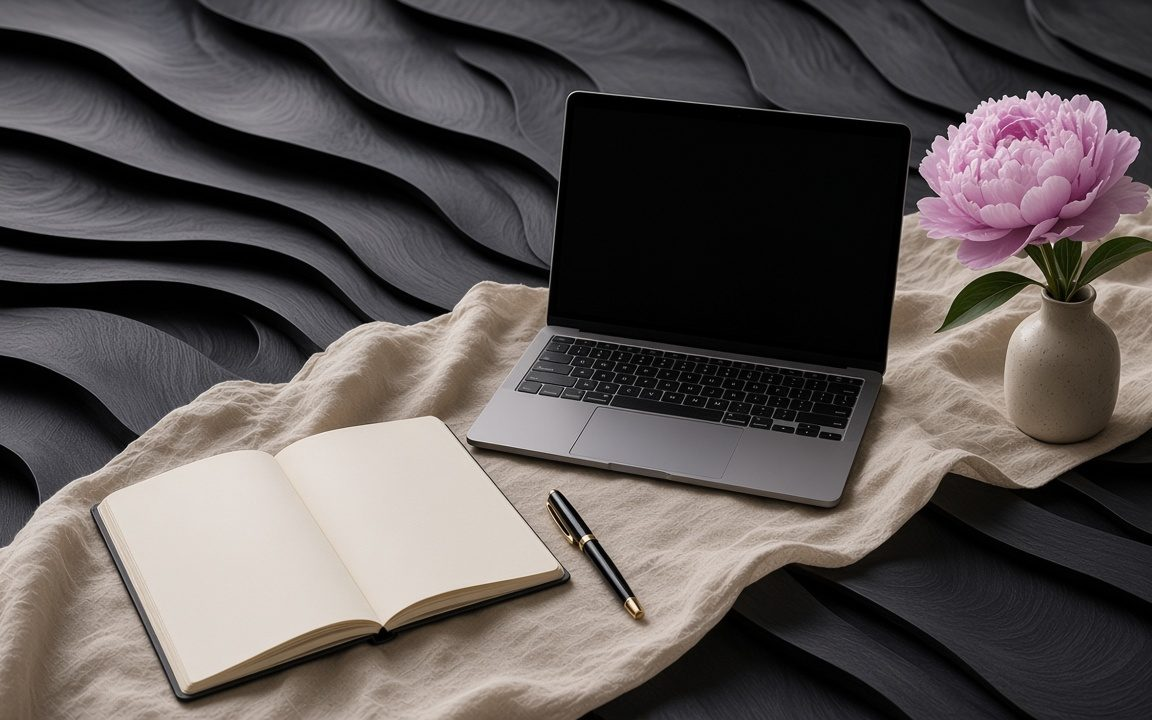
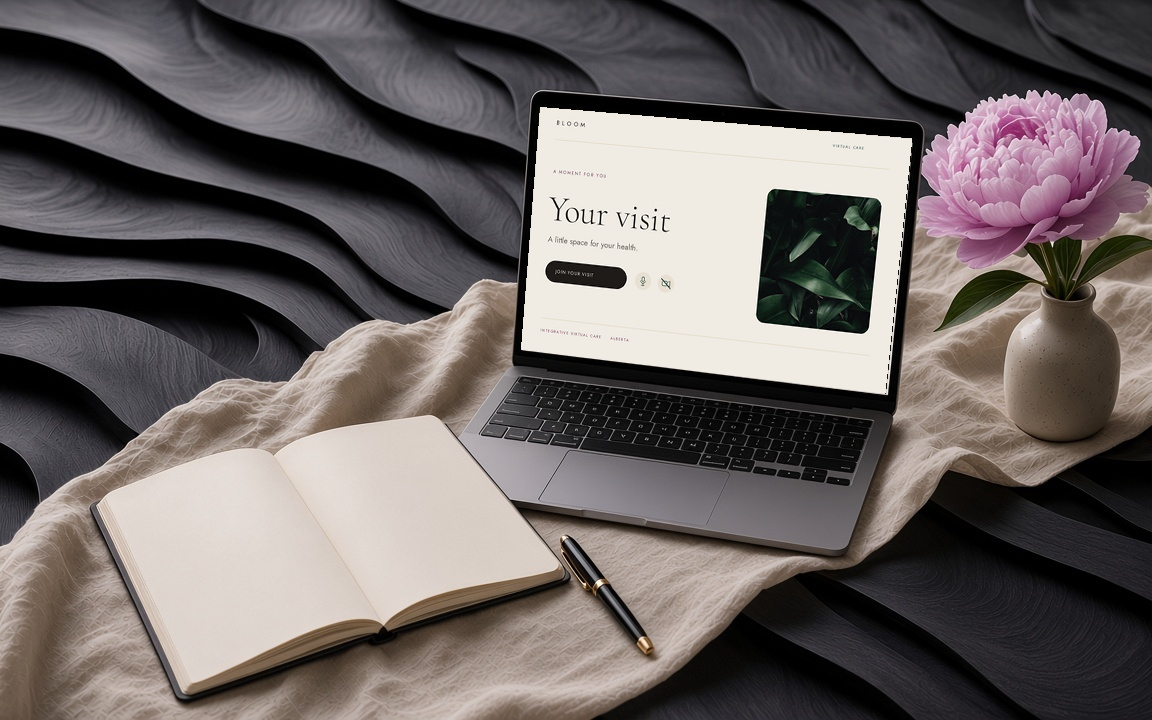
Refine Bloom Library images and lead with first visit
* Place the first-visit card first in the Library grid.

The other five cards keep their previous order. No image files change; the blood-work and first-visit replacements are still waiting.

* Use the final blood-work and first-visit Library images.

The blood-work picture shows a low fill of blood in three tubes. The first-visit picture shows an illustrated Bloom visit screen. Alt text matches those pictures, and the other four images stay as they were.

* Replace the blood-work and first-visit pictures with the revised files.

The tubes are a little under half full. The laptop shows the Bloom homepage. Alt text matches those pictures.

* Use the brand-cap blood-work picture and the green-leaf visit screen.

The tubes stay a little under half full, with emerald, burgundy, and lilac caps. The laptop shows a Your visit screen with emerald foliage. The other four images stay as they were.

---------

diff --git a/index.html b/index.html
@@ -1319,10 +1319,10 @@ footer a:hover{color:var(--bone)}
     </div>
     <!-- Illustrative AI-generated imagery for the six Library articles, cropped from 16:9 to 16:10. Not a photograph of a patient, a practitioner, or a laboratory result. -->
 <div class="lib-grid">
-      <article class="neo res reveal"><div class="res-img" role="img" aria-label="Clear glass vessels on ivory linen, with a pale pink petal and a few leaves" style="background-image:url('library/images/understanding-your-blood-work.jpg')"></div><div class="res-top"><span class="pill pill-lilac">Guide</span><span class="small">7 min read</span></div><h3><a href="/library/understanding-your-blood-work.html">Understanding your blood work</a></h3><p class="small">What common lab markers measure, explained in plain language, plus questions to bring to your next visit. Your practitioner will always review your results with you.</p><a class="link" href="/library/understanding-your-blood-work.html">Read</a></article>
+      <article class="neo res reveal"><div class="res-img" role="img" aria-label="An open blank notebook, a pen, and a laptop showing a Bloom screen titled Your visit with green leaves, beside a pink flower in a vase" style="background-image:url('library/images/what-to-expect-at-your-first-visit.jpg')"></div><div class="res-top"><span class="pill pill-lilac">Bloom</span><span class="small">6 min read</span></div><h3><a href="/library/what-to-expect-at-your-first-visit.html">What to expect at your first visit</a></h3><p class="small">How an integrated visit works, from booking to your written plan.</p><a class="link" href="/library/what-to-expect-at-your-first-visit.html">Read</a></article>
+      <article class="neo res reveal"><div class="res-img" role="img" aria-label="Three collection tubes a little under half full of dark red blood, with emerald, burgundy, and lilac caps, on ivory linen beside a pink flower and an amber bottle" style="background-image:url('library/images/understanding-your-blood-work.jpg')"></div><div class="res-top"><span class="pill pill-lilac">Guide</span><span class="small">7 min read</span></div><h3><a href="/library/understanding-your-blood-work.html">Understanding your blood work</a></h3><p class="small">What common lab markers measure, explained in plain language, plus questions to bring to your next visit. Your practitioner will always review your results with you.</p><a class="link" href="/library/understanding-your-blood-work.html">Read</a></article>
       <article class="neo res reveal"><div class="res-img" role="img" aria-label="A ceramic cup of tea beside a closed book, a white flower and lilac petals on rumpled linen" style="background-image:url('library/images/an-evening-wind-down.jpg')"></div><div class="res-top"><span class="pill pill-lilac">Ritual</span><span class="small">6 min read</span></div><h3><a href="/library/an-evening-wind-down.html">An evening wind-down</a></h3><p class="small">A gentle routine for the hour before bed, from a warm cup of tea to screens off.</p><a class="link" href="/library/an-evening-wind-down.html">Read</a></article>
       <article class="neo res reveal"><div class="res-img" role="img" aria-label="A plate of grains, roasted vegetables, leafy greens and orange segments on linen, with a white flower beside it" style="background-image:url('library/images/balanced-eating-made-simple.jpg')"></div><div class="res-top"><span class="pill pill-lilac">Nutrition</span><span class="small">6 min read</span></div><h3><a href="/library/balanced-eating-made-simple.html">Balanced eating, made simple</a></h3><p class="small">Easy ways to build balanced meals around foods you already enjoy.</p><a class="link" href="/library/balanced-eating-made-simple.html">Read</a></article>
-      <article class="neo res reveal"><div class="res-img" role="img" aria-label="An open blank notebook, a pen and a laptop with a dark screen on linen, beside a pink flower in a small vase" style="background-image:url('library/images/what-to-expect-at-your-first-visit.jpg')"></div><div class="res-top"><span class="pill pill-lilac">Bloom</span><span class="small">6 min read</span></div><h3><a href="/library/what-to-expect-at-your-first-visit.html">What to expect at your first visit</a></h3><p class="small">How an integrated visit works, from booking to your written plan.</p><a class="link" href="/library/what-to-expect-at-your-first-visit.html">Read</a></article>
       <article class="neo res reveal"><div class="res-img" role="img" aria-label="A ceramic bowl of vegetable soup with a wooden spoon and a sprig of rosemary" style="background-image:url('library/images/warming-winter-soups.jpg')"></div><div class="res-top"><span class="pill pill-lilac">Recipe</span><span class="small">7 min read</span></div><h3><a href="/library/warming-winter-soups.html">Warming winter soups</a></h3><p class="small">Simple, comforting recipes for the colder months.</p><a class="link" href="/library/warming-winter-soups.html">Read</a></article>
       <article class="neo res reveal"><div class="res-img" role="img" aria-label="A glass carafe and a glass of water on linen, with white and pink flowers" style="background-image:url('library/images/hydration-made-easy.jpg')"></div><div class="res-top"><span class="pill pill-lilac">Practice</span><span class="small">6 min read</span></div><h3><a href="/library/hydration-made-easy.html">Hydration, made easy</a></h3><p class="small">Small, everyday habits that make drinking water effortless.</p><a class="link" href="/library/hydration-made-easy.html">Read</a></article>
     </div>

diff --git a/library/what-to-expect-at-your-first-visit.html b/library/what-to-expect-at-your-first-visit.html
@@ -53,7 +53,7 @@
     </header>
     <!-- Illustrative AI-generated imagery for the six Library articles, cropped from 16:9 to 16:10. Not a photograph of a patient, a practitioner, or a laboratory result. -->
 <figure class="hero-fig">
-      <img src="images/what-to-expect-at-your-first-visit.jpg" alt="An open blank notebook, a pen and a laptop with a dark screen on linen, beside a pink flower in a small vase">
+      <img src="images/what-to-expect-at-your-first-visit.jpg" alt="An open blank notebook, a pen, and a laptop showing a Bloom screen titled Your visit with green leaves, beside a pink flower in a vase">
       <figcaption>Illustrative AI-generated imagery.</figcaption>
     </figure>
     <div class="article-body">
@@ -157,7 +157,7 @@
       <h2>More from the library</h2>
       <div class="rel-grid">
       <a class="rel neo" href="understanding-your-blood-work.html">
-        <img src="images/understanding-your-blood-work.jpg" alt="Clear glass vessels on ivory linen, with a pale pink petal and a few leaves">
+        <img src="images/understanding-your-blood-work.jpg" alt="Three collection tubes a little under half full of dark red blood, with emerald, burgundy, and lilac caps, on ivory linen beside a pink flower and an amber bottle">
         <div class="body">
           <span class="pill pill-lilac">Guide</span>
           <h3>Understanding your blood work</h3>

diff --git a/library/understanding-your-blood-work.html b/library/understanding-your-blood-work.html
@@ -53,7 +53,7 @@
     </header>
     <!-- Illustrative AI-generated imagery for the six Library articles, cropped from 16:9 to 16:10. Not a photograph of a patient, a practitioner, or a laboratory result. -->
 <figure class="hero-fig">
-      <img src="images/understanding-your-blood-work.jpg" alt="Clear glass vessels on ivory linen, with a pale pink petal and a few leaves">
+      <img src="images/understanding-your-blood-work.jpg" alt="Three collection tubes a little under half full of dark red blood, with emerald, burgundy, and lilac caps, on ivory linen beside a pink flower and an amber bottle">
       <figcaption>Illustrative AI-generated imagery.</figcaption>
     </figure>
     <div class="article-body">
@@ -183,7 +183,7 @@
           </div>
       </a>
       <a class="rel neo" href="what-to-expect-at-your-first-visit.html">
-        <img src="images/what-to-expect-at-your-first-visit.jpg" alt="An open blank notebook, a pen and a laptop with a dark screen on linen, beside a pink flower in a small vase">
+        <img src="images/what-to-expect-at-your-first-visit.jpg" alt="An open blank notebook, a pen, and a laptop showing a Bloom screen titled Your visit with green leaves, beside a pink flower in a vase">
         <div class="body">
           <span class="pill pill-lilac">Bloom</span>
           <h3>What to expect at your first visit</h3>

diff --git a/library/an-evening-wind-down.html b/library/an-evening-wind-down.html
@@ -139,7 +139,7 @@
       <h2>More from the library</h2>
       <div class="rel-grid">
       <a class="rel neo" href="understanding-your-blood-work.html">
-        <img src="images/understanding-your-blood-work.jpg" alt="Clear glass vessels on ivory linen, with a pale pink petal and a few leaves">
+        <img src="images/understanding-your-blood-work.jpg" alt="Three collection tubes a little under half full of dark red blood, with emerald, burgundy, and lilac caps, on ivory linen beside a pink flower and an amber bottle">
         <div class="body">
           <span class="pill pill-lilac">Guide</span>
           <h3>Understanding your blood work</h3>
@@ -157,7 +157,7 @@
           </div>
       </a>
       <a class="rel neo" href="what-to-expect-at-your-first-visit.html">
-        <img src="images/what-to-expect-at-your-first-visit.jpg" alt="An open blank notebook, a pen and a laptop with a dark screen on linen, beside a pink flower in a small vase">
+        <img src="images/what-to-expect-at-your-first-visit.jpg" alt="An open blank notebook, a pen, and a laptop showing a Bloom screen titled Your visit with green leaves, beside a pink flower in a vase">
         <div class="body">
           <span class="pill pill-lilac">Bloom</span>
           <h3>What to expect at your first visit</h3>

diff --git a/library/balanced-eating-made-simple.html b/library/balanced-eating-made-simple.html
@@ -143,7 +143,7 @@
       <h2>More from the library</h2>
       <div class="rel-grid">
       <a class="rel neo" href="understanding-your-blood-work.html">
-        <img src="images/understanding-your-blood-work.jpg" alt="Clear glass vessels on ivory linen, with a pale pink petal and a few leaves">
+        <img src="images/understanding-your-blood-work.jpg" alt="Three collection tubes a little under half full of dark red blood, with emerald, burgundy, and lilac caps, on ivory linen beside a pink flower and an amber bottle">
         <div class="body">
           <span class="pill pill-lilac">Guide</span>
           <h3>Understanding your blood work</h3>
@@ -161,7 +161,7 @@
         </div>
       </a>
       <a class="rel neo" href="what-to-expect-at-your-first-visit.html">
-        <img src="images/what-to-expect-at-your-first-visit.jpg" alt="An open blank notebook, a pen and a laptop with a dark screen on linen, beside a pink flower in a small vase">
+        <img src="images/what-to-expect-at-your-first-visit.jpg" alt="An open blank notebook, a pen, and a laptop showing a Bloom screen titled Your visit with green leaves, beside a pink flower in a vase">
         <div class="body">
           <span class="pill pill-lilac">Bloom</span>
           <h3>What to expect at your first visit</h3>

diff --git a/library/hydration-made-easy.html b/library/hydration-made-easy.html
@@ -149,7 +149,7 @@
       <h2>More from the library</h2>
       <div class="rel-grid">
       <a class="rel neo" href="understanding-your-blood-work.html">
-        <img src="images/understanding-your-blood-work.jpg" alt="Clear glass vessels on ivory linen, with a pale pink petal and a few leaves">
+        <img src="images/understanding-your-blood-work.jpg" alt="Three collection tubes a little under half full of dark red blood, with emerald, burgundy, and lilac caps, on ivory linen beside a pink flower and an amber bottle">
         <div class="body">
           <span class="pill pill-lilac">Guide</span>
           <h3>Understanding your blood work</h3>

diff --git a/library/warming-winter-soups.html b/library/warming-winter-soups.html
@@ -217,7 +217,7 @@
       <h2>More from the library</h2>
       <div class="rel-grid">
       <a class="rel neo" href="understanding-your-blood-work.html">
-        <img src="images/understanding-your-blood-work.jpg" alt="Clear glass vessels on ivory linen, with a pale pink petal and a few leaves">
+        <img src="images/understanding-your-blood-work.jpg" alt="Three collection tubes a little under half full of dark red blood, with emerald, burgundy, and lilac caps, on ivory linen beside a pink flower and an amber bottle">
         <div class="body">
           <span class="pill pill-lilac">Guide</span>
           <h3>Understanding your blood work</h3>
